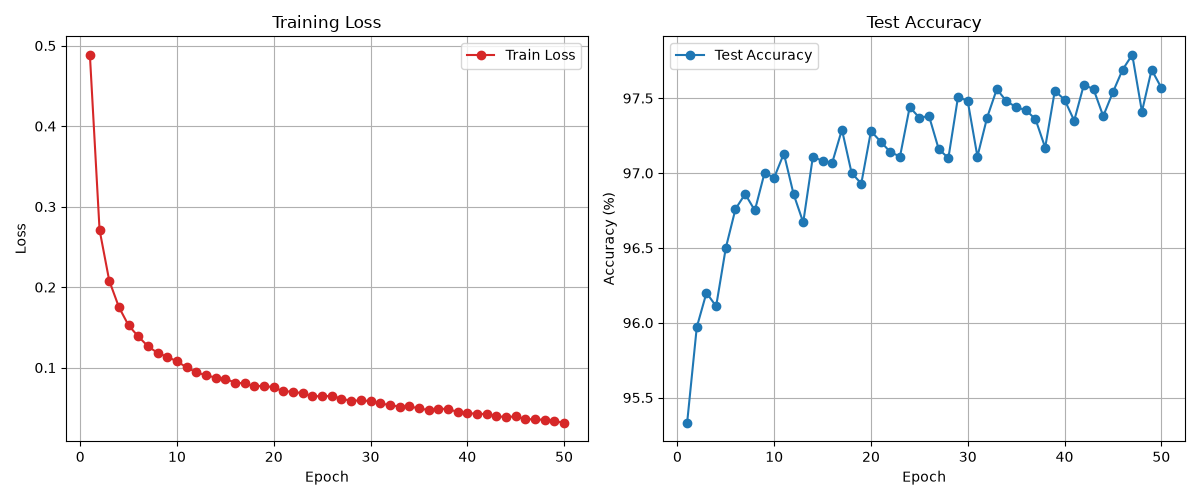
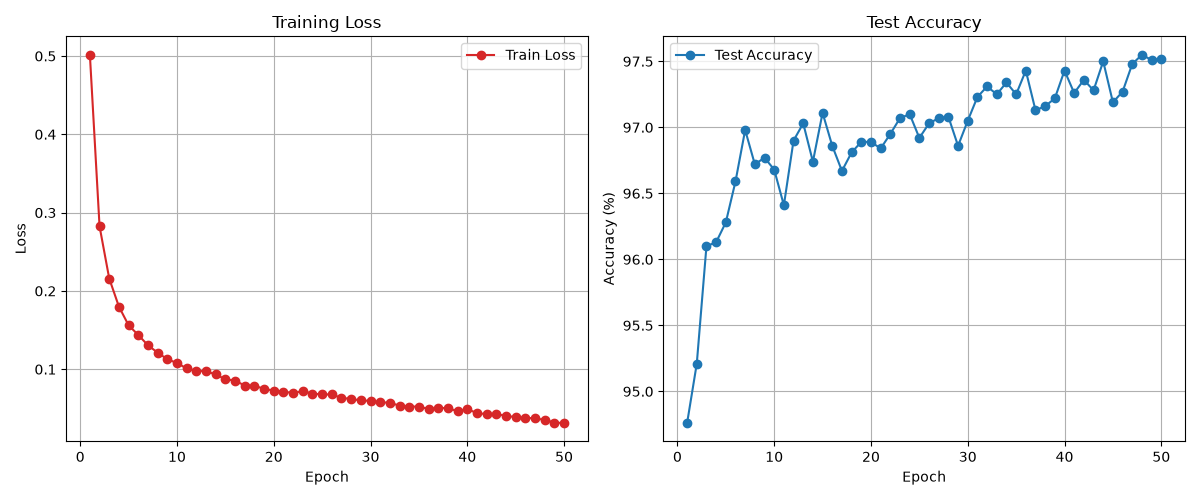
GAの評価を学習とは関係ないデータでするように修正し、GAの過学習を脱却

diff --git a/script/binarize_connect_ga_mnist.py b/script/binarize_connect_ga_mnist.py
@@ -5,7 +5,7 @@ import torch.nn as nn
 import torch.optim as optim
 import matplotlib.pyplot as plt
 from torchvision import datasets, transforms
-from torch.utils.data import DataLoader
+from torch.utils.data import DataLoader, random_split
 
 class BinaryConnectMnist(nn.Module):
     def __init__(self):
@@ -209,7 +209,7 @@ def main():
     batch_size = 64
     learning_rate = 0.001
     ga_act=4
-    use_ga=False
+    use_ga=True
 
     device = torch.device('cuda' if torch.cuda.is_available() else 'cpu') # デバイス判定
     print(f"使用デバイス: {device}")
@@ -220,20 +220,26 @@ def main():
         transforms.ToTensor(),
         transforms.Normalize((0.1307,), (0.3081,))
     ])
-    
-    train_dataset = datasets.MNIST(root='./data', train=True, download=True, transform=transform)
+
+    # --- 訓練用とGA検証用に分割 ---
+    # 訓練: 55000枚、GA検証用: 5000枚(学習には一切使わない)
+    full_train_dataset = datasets.MNIST(root='./data', train=True, download=True, transform=transform)
+    train_size = 55000
+    val_size = len(full_train_dataset) - train_size
+    train_dataset, ga_val_dataset = random_split(full_train_dataset, [train_size, val_size], generator=torch.Generator().manual_seed(42) )
+
+
     train_loader = DataLoader(train_dataset, batch_size=batch_size, shuffle=True)
+
+    # GA検証用データをテンソルにまとめておく(毎回同じプールからサンプリングする)
+    ga_val_x = torch.stack([ga_val_dataset[i][0] for i in range(len(ga_val_dataset))])
+    ga_val_y = torch.tensor([ga_val_dataset[i][1] for i in range(len(ga_val_dataset))])
 
     test_dataset = datasets.MNIST(root='./data', train=False, download=True, transform=transform)
 
     # テストデータをTensorにまとめる
-    test_x = torch.stack(
-        [test_dataset[i][0] for i in range(len(test_dataset))]
-    )
-
-    test_y = torch.tensor(
-        [test_dataset[i][1] for i in range(len(test_dataset))]
-    )
+    test_x = torch.stack([test_dataset[i][0] for i in range(len(test_dataset))])
+    test_y = torch.tensor([test_dataset[i][1] for i in range(len(test_dataset))])
 
     optimizer = optim.Adam(
         list(model.layers.parameters()) +
@@ -245,11 +251,7 @@ def main():
     # 学習率をcos関数の波形に沿って徐々に小さくしていく
     scheduler = optim.lr_scheduler.CosineAnnealingLR(optimizer, T_max=epochs)
 
-    if use_ga:
-        help_x, help_y = next(iter(DataLoader(train_loader.dataset, batch_size=500, shuffle=True)))
-        help_x, help_y = help_x.to(device), help_y.to(device)
-
-    best_loss_so_far = float('inf')
+    best_acc_so_far = 0.0
     count = 0
     help_events = []
     train_losses = []
@@ -281,20 +283,25 @@ def main():
 
             # 停滞検知
             # 前エポックまでの最小損失 best_loss_so_farから今回のepoch_lossを引いた低下量が0.001より大きいかを検証
-            if best_loss_so_far - epoch_loss > 1e-3:
-                best_loss_so_far = epoch_loss
+            if epoch_acc - best_acc_so_far > 0.01:
+                best_acc_so_far = epoch_acc
                 count = 0
             else:
                 count += 1
 
             if count >= ga_act:
+
+                # GA検証用プール(訓練にも評価にも使っていない5000枚)から500枚サンプリング
+                perm = torch.randperm(len(ga_val_x))[:500]
+                help_x, help_y = ga_val_x[perm], ga_val_y[perm]
+
                 help_acc, improved = genetic_algorithm(model, help_x, help_y, device)
                 count = 0
                 help_events.append(epoch)
             
                 print(f"  → Epoch {epoch}: 停滞検知、GA摂動を実施 "
                       f"(改善={'あり' if improved else 'なし'}, "
-                      f"rescue_acc={help_acc:.2f})")
+                      f"rescue_acc={help_acc:.2f}%)")
             
 
         print(f"Epoch [{epoch}/{epochs}] - Loss: {epoch_loss:.4f} | Test Acc: {epoch_acc:.2f}%")
